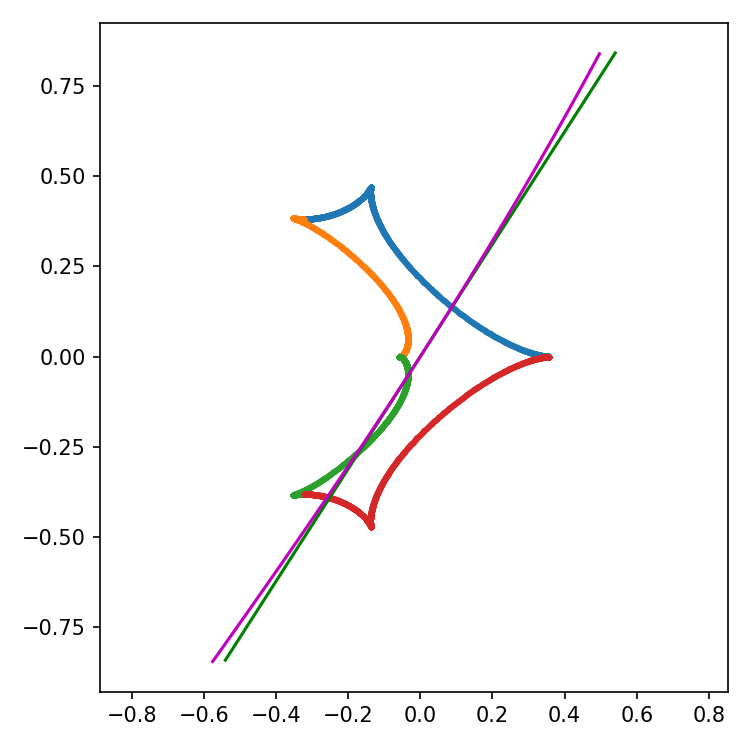
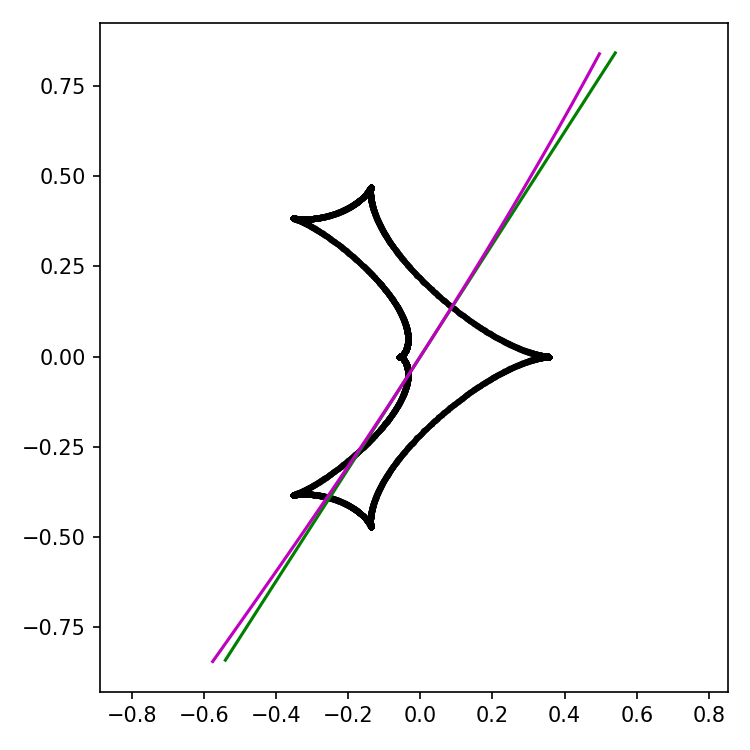
docs: visualize satellite and terrestrial parallax

diff --git a/example/docs-python/generate_figures.py b/example/docs-python/generate_figures.py
@@ -32,8 +32,9 @@ def plot_branches(branches, *args, **kwargs):
 
 
 def scatter_caustics(branches, *, size=3, **kwargs):
-    for x, y in zip(branches.x, branches.y):
-        plt.scatter(-np.asarray(x), -np.asarray(y), s=size, **kwargs)
+    x = np.concatenate([np.asarray(branch) for branch in branches.x])
+    y = np.concatenate([np.asarray(branch) for branch in branches.y])
+    plt.scatter(-x, -y, s=size, **kwargs)
 
 
 def standard_binary():
@@ -156,11 +157,86 @@ def parallax():
     save("BinaryLens_lightcurve_parallax.png")
 
     plt.figure(figsize=(5, 5))
-    scatter_caustics(static.caustics(params))
+    scatter_caustics(static.caustics(params), color="k")
     plt.plot(-np.asarray(static_trajectory.x), -np.asarray(static_trajectory.y), "g")
     plt.plot(-np.asarray(moved_trajectory.x), -np.asarray(moved_trajectory.y), "m")
     plt.axis("equal")
     save("BinaryLens_lightcurve_parallax_caustics.png")
+
+    satellite_phase = np.linspace(-1.0, 1.0, len(times))
+    satellite_table = np.column_stack([
+        2450000.0 + times,
+        270.0 + 12.0 * satellite_phase,
+        -20.0 + 4.0 * np.sin(np.pi * satellite_phase),
+        0.55 + 0.05 * satellite_phase,
+    ])
+    satellite_model = lcbinint.Model(
+        parallax=True,
+        terrestrial=True,
+        sky=lcbinint.obs.SkyCoord("17:59:02.3", "-29:04:15.2"),
+        t_ref=7500,
+    )
+    ground = lcbinint.LightCurve(
+        model=satellite_model,
+        site=lcbinint.obs.Site("ground", -29.0, -70.7),
+        options=options,
+    )
+    space = lcbinint.LightCurve(
+        model=satellite_model,
+        site=lcbinint.obs.Site("space", satellite_table),
+        options=options,
+    )
+    ground_mag = ground(times, params)
+    space_mag = space(times, params)
+    fig, (curve_ax, difference_ax) = plt.subplots(
+        2, 1, sharex=True, figsize=(7, 6),
+        gridspec_kw={"height_ratios": [3, 1]},
+    )
+    curve_ax.plot(times, ground_mag, label="ground: Chile")
+    curve_ax.plot(times, space_mag, label="spacecraft")
+    curve_ax.set_ylabel("Magnification")
+    curve_ax.legend()
+    difference_ax.plot(times, space_mag - ground_mag)
+    difference_ax.axhline(0.0, color="0.6", linewidth=1)
+    difference_ax.set(xlabel="Time", ylabel="space - ground")
+    fig.tight_layout()
+    plt.savefig(OUTPUT / "SatelliteParallax_comparison.png", dpi=150)
+    plt.close()
+
+    terrestrial_model = lcbinint.Model(
+        parallax=True,
+        terrestrial=True,
+        sky=lcbinint.obs.SkyCoord("17:59:02.3", "-29:04:15.2"),
+        t_ref=7500,
+    )
+    africa = lcbinint.LightCurve(
+        model=terrestrial_model,
+        site=lcbinint.obs.Site("ground", -29.0, 20.0),
+        options=options,
+    )
+    chile = lcbinint.LightCurve(
+        model=terrestrial_model,
+        site=lcbinint.obs.Site("ground", -29.0, -70.7),
+        options=options,
+    )
+    africa_mag = africa(times, params)
+    chile_mag = chile(times, params)
+    fig, (curve_ax, difference_ax) = plt.subplots(
+        2, 1, sharex=True, figsize=(7, 6),
+        gridspec_kw={"height_ratios": [3, 1]},
+    )
+    curve_ax.plot(times, africa_mag, label="Africa: 29 S, 20 E")
+    curve_ax.plot(times, chile_mag, label="Chile: 29 S, 70.7 W")
+    curve_ax.set_ylabel("Magnification")
+    curve_ax.legend()
+    difference_ax.plot(times, 1e3 * (africa_mag - chile_mag))
+    difference_ax.axhline(0.0, color="0.6", linewidth=1)
+    difference_ax.set(
+        xlabel="Time", ylabel=r"$10^3\,(A_{Africa}-A_{Chile})$"
+    )
+    fig.tight_layout()
+    plt.savefig(OUTPUT / "TerrestrialParallax_comparison.png", dpi=150)
+    plt.close()
 
 
 def orbital_motion():

diff --git a/docs/python/Parallax.md b/docs/python/Parallax.md
@@ -64,10 +64,11 @@ Plot the caustics and trajectories in a separate block:
 
 ```python
 caustics = static_curve.caustics(params)
+caustic_x = np.concatenate([np.asarray(x) for x in caustics.x])
+caustic_y = np.concatenate([np.asarray(y) for y in caustics.y])
 
 plt.figure(figsize=(5, 5))
-for x, y in zip(caustics.x, caustics.y):
-    plt.scatter(-np.asarray(x), -np.asarray(y), s=3)
+plt.scatter(-caustic_x, -caustic_y, s=3, color="k")
 plt.plot(-np.asarray(trajectory.x), -np.asarray(trajectory.y), "g")
 plt.plot(-np.asarray(trajectory_parallax.x), -np.asarray(trajectory_parallax.y), "m")
 plt.axis("equal")
@@ -79,17 +80,58 @@ plt.show()
 ## Satellite Parallax
 
 For a space observatory, pass a table with `(JD, RA_deg, Dec_deg, distance_AU)`
-columns to its own site while reusing the same physical model:
+columns to its own site while reusing the same physical model. The small table
+below is an illustrative ephemeris that keeps this example self-contained;
+replace it with the observatory ephemeris for a real event.
 
 ```python
-satellite_table = np.loadtxt("satellite1.txt")
+satellite_phase = np.linspace(-1.0, 1.0, len(t))
+satellite_table = np.column_stack([
+    2450000.0 + t,
+    270.0 + 12.0 * satellite_phase,
+    -20.0 + 4.0 * np.sin(np.pi * satellite_phase),
+    0.55 + 0.05 * satellite_phase,
+])
+satellite_model = lcbinint.Model(
+    parallax=True,
+    terrestrial=True,
+    sky=sky,
+    t_ref=t0,
+)
+ground_curve = lcbinint.LightCurve(
+    model=satellite_model,
+    site=lcbinint.obs.Site("ground", -29.0, -70.7),
+    options=options,
+)
 space_curve = lcbinint.LightCurve(
-    model=parallax_curve.model,
+    model=satellite_model,
     site=lcbinint.obs.Site("space", satellite_table),
     options=options,
 )
+magnifications_ground = ground_curve(t, params)
 magnifications_satellite = space_curve(t, params)
 ```
+
+Plot the Earth and spacecraft observations together, then isolate the
+spacecraft contribution in a difference panel:
+
+```python
+fig, (curve_ax, difference_ax) = plt.subplots(
+    2, 1, sharex=True, figsize=(7, 6),
+    gridspec_kw={"height_ratios": [3, 1]},
+)
+curve_ax.plot(t, magnifications_ground, label="ground: Chile")
+curve_ax.plot(t, magnifications_satellite, label="spacecraft")
+curve_ax.set_ylabel("Magnification")
+curve_ax.legend()
+difference_ax.plot(t, magnifications_satellite - magnifications_ground)
+difference_ax.axhline(0.0, color="0.6", linewidth=1)
+difference_ax.set(xlabel="Time", ylabel="space - ground")
+fig.tight_layout()
+plt.show()
+```
+
+![Ground and satellite parallax comparison](figures/SatelliteParallax_comparison.png)
 
 ## Terrestrial parallax
 
@@ -110,6 +152,30 @@ chile = lcbinint.LightCurve(
     site=lcbinint.obs.Site("ground", -29.0, -70.7),
     options=options,
 )
+magnifications_africa = africa(t, params)
+magnifications_chile = chile(t, params)
 ```
+
+The terrestrial signal is much smaller than the annual or satellite signal,
+so show the two observatories together and magnify their difference in a lower
+panel:
+
+```python
+fig, (curve_ax, difference_ax) = plt.subplots(
+    2, 1, sharex=True, figsize=(7, 6),
+    gridspec_kw={"height_ratios": [3, 1]},
+)
+curve_ax.plot(t, magnifications_africa, label="Africa: 29 S, 20 E")
+curve_ax.plot(t, magnifications_chile, label="Chile: 29 S, 70.7 W")
+curve_ax.set_ylabel("Magnification")
+curve_ax.legend()
+difference_ax.plot(t, 1e3 * (magnifications_africa - magnifications_chile))
+difference_ax.axhline(0.0, color="0.6", linewidth=1)
+difference_ax.set(xlabel="Time", ylabel=r"$10^3\,(A_{Africa}-A_{Chile})$")
+fig.tight_layout()
+plt.show()
+```
+
+![Terrestrial parallax comparison](figures/TerrestrialParallax_comparison.png)
 
 [Go to Orbital Motion](OrbitalMotion.md)
